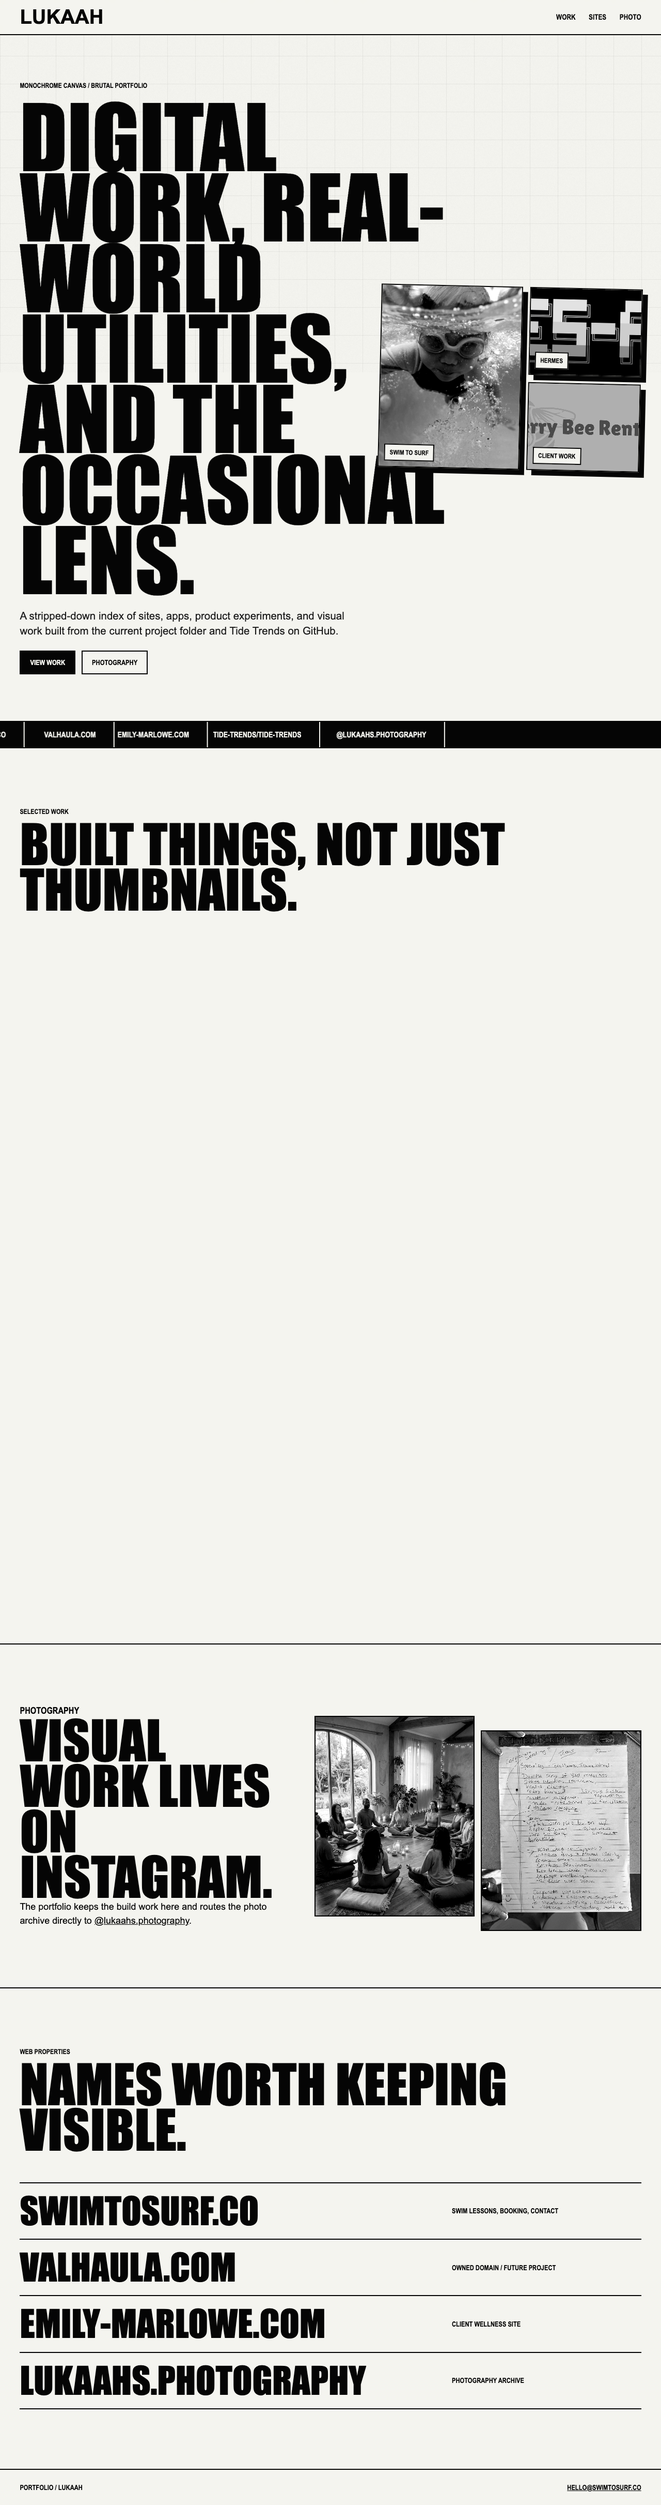
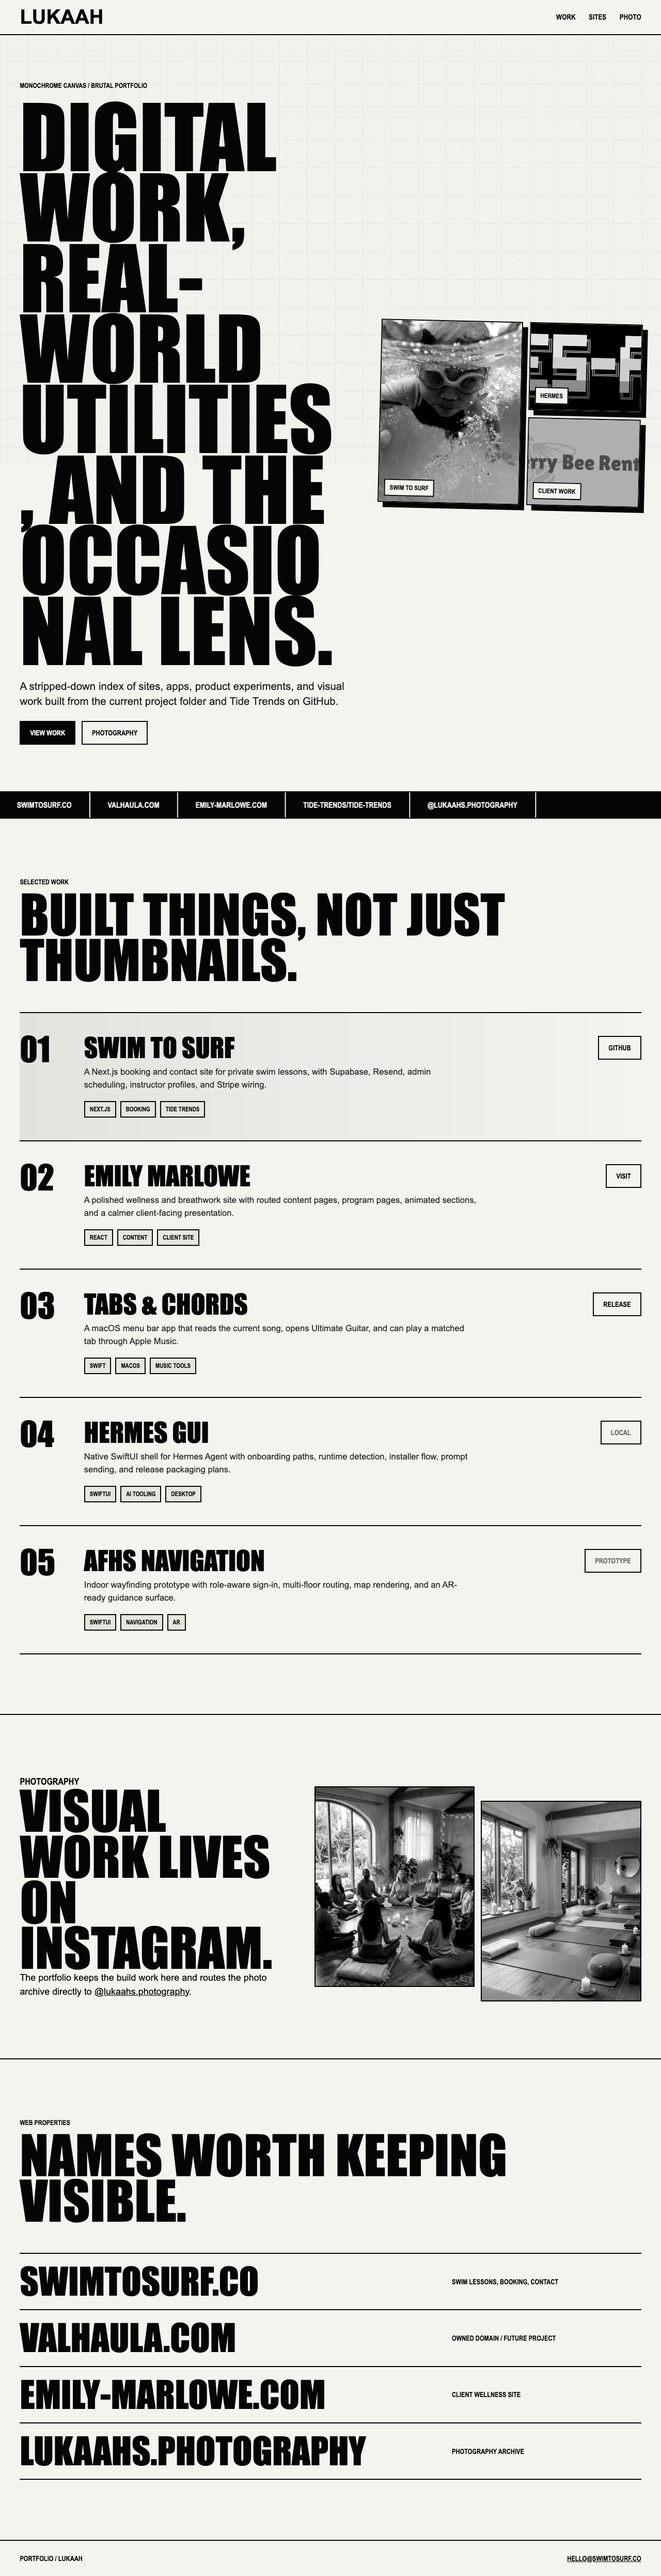
Polish portfolio for Vercel deploy

diff --git a/styles.css b/styles.css
@@ -98,6 +98,7 @@ nav a:hover,
 }
 
 .section-lock {
+  width: 100%;
   max-width: var(--max);
   margin: 0 auto;
   padding-inline: var(--inset);
@@ -115,6 +116,7 @@ nav a:hover,
 .hero-copy {
   display: grid;
   gap: 24px;
+  min-width: 0;
 }
 
 .kicker {
@@ -140,6 +142,7 @@ h1 {
   line-height: 0.82;
   font-weight: 900;
   text-transform: uppercase;
+  overflow-wrap: anywhere;
 }
 
 h2 {
@@ -211,6 +214,7 @@ h3 {
   grid-template-columns: 1fr 0.8fr;
   grid-auto-rows: minmax(170px, 1fr);
   gap: 14px;
+  min-width: 0;
   transform: rotate(1.3deg);
 }
 
@@ -411,14 +415,13 @@ h3 {
 }
 
 .reveal {
-  opacity: 0;
-  transform: translateY(30px);
-  transition: opacity 520ms ease, transform 520ms ease;
+  opacity: 1;
+  transform: translateY(0);
+  transition: transform 520ms ease;
 }
 
 .reveal.is-visible {
-  opacity: 1;
-  transform: translateY(0);
+  transform: translateY(-4px);
 }
 
 @keyframes crawl {
@@ -485,6 +488,14 @@ h3 {
 
   .media-tile.tall {
     grid-row: auto;
+  }
+
+  .media-tile {
+    box-shadow: 5px 5px 0 var(--ink);
+  }
+
+  .media-tile img {
+    max-width: none;
   }
 
   .project {

diff --git a/index.html b/index.html
@@ -8,6 +8,7 @@
       content="Lukaah portfolio: websites, product prototypes, automation tools, and photography."
     />
     <title>Lukaah | Portfolio</title>
+    <link rel="icon" href="./favicon.svg" type="image/svg+xml" />
     <link rel="stylesheet" href="./styles.css" />
   </head>
   <body>
@@ -157,7 +158,7 @@
         </div>
         <div class="photo-grid" aria-label="Local visual samples">
           <img src="./assets/summit-breathwork.png" alt="Summit Breathwork visual sample" />
-          <img src="./assets/emily-marlowe.png" alt="Emily Marlowe visual sample" />
+          <img src="./assets/studio.png" alt="Studio visual sample" />
         </div>
       </section>
 
